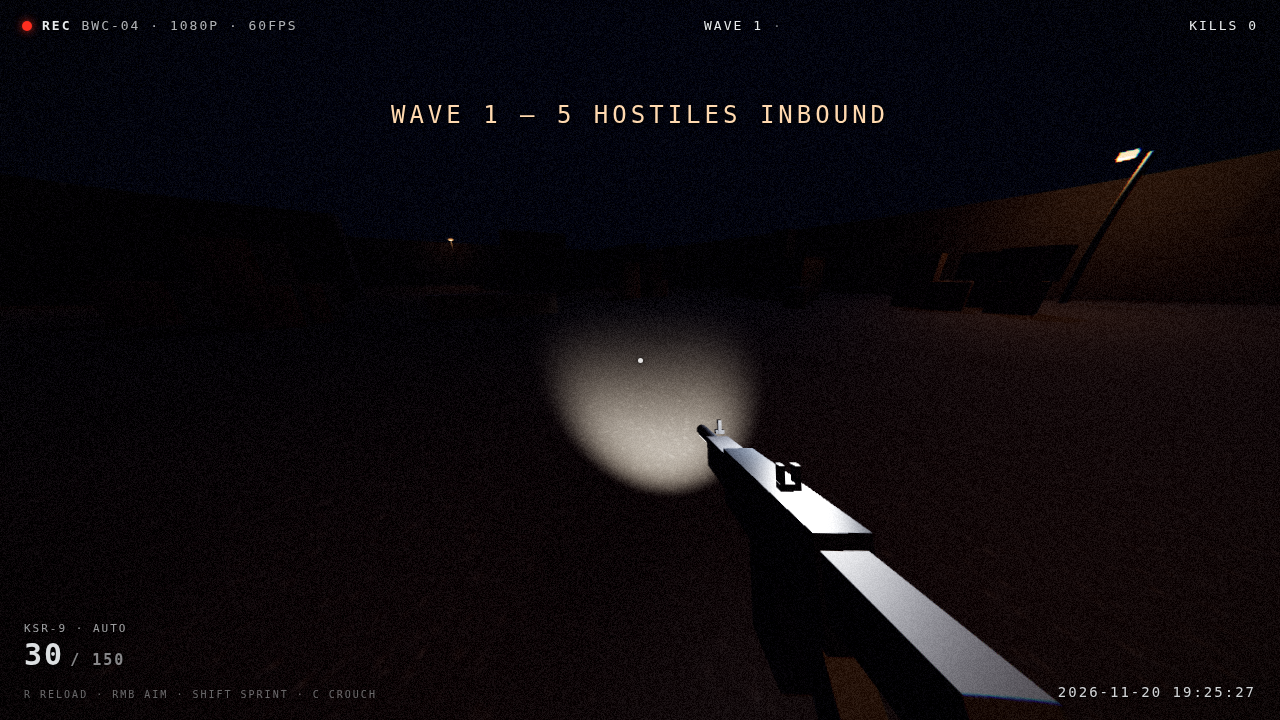
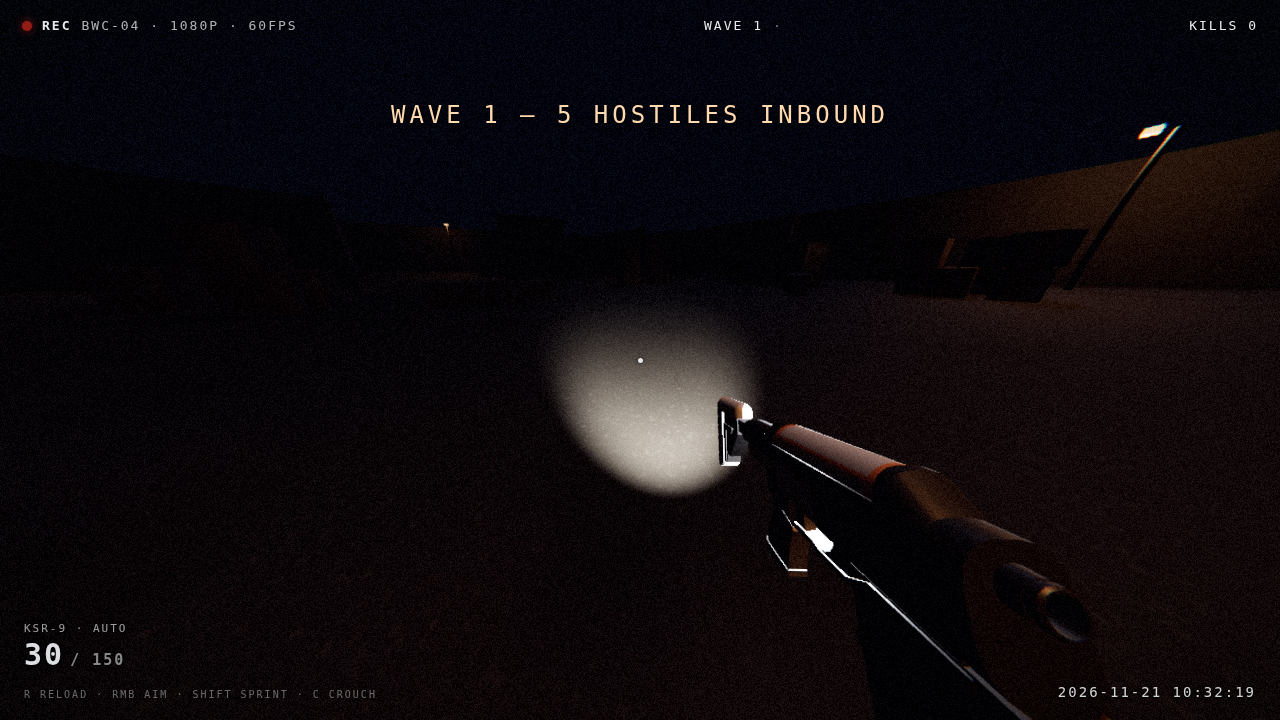
docs: real-model era — README refresh with soldier/SMG sections + credits
- tagline updated: procedural textures/sounds/effects on real GLTF models
- new 'Real 3D models' section: soldier source, SMG normalization, the
  model-space magazine reload, invisible hitboxes, loading gate
- architecture map gains core/Assets.ts; chest-mounted rifle documented
- fresh screenshots: night yard, reload with soldiers, soldier close-up

diff --git a/src/main.ts b/src/main.ts
@@ -270,3 +270,12 @@ window.addEventListener('resize', () => {
 });
 
 console.log('[lastmagazine] bodycam ops ready');
+
+// minimal debug/testing hook (harmless in production)
+(window as unknown as Record<string, unknown>).__lm = {
+  get enemies() {
+    return enemies;
+  },
+  player,
+  rig,
+};

diff --git a/README.md b/README.md
@@ -1,8 +1,10 @@
 # LAST MAGAZINE — Bodycam Ops
 
 A **bodycam-style first-person shooter** that runs entirely in the browser.
-Built with **npm + Vite + TypeScript + three.js** — every texture, every sound
-and every model is generated procedurally at runtime. **Zero binary assets.**
+Built with **npm + Vite + TypeScript + three.js** — all textures, sounds and
+effects are generated procedurally at runtime, on top of **real GLTF 3D
+models** for the characters and weapons (see
+[public/models/CREDITS.md](public/models/CREDITS.md)).
 
 You are the camera. Hold Night Yard K-7 against escalating waves of hostiles,
 with a weapon-mounted light cutting through the dark and a rig that bobs,
@@ -45,6 +47,28 @@ Esc pauses, click to resume.
 
 ## What's inside
 
+### Real 3D models
+
+- **Hostiles** are the rigged **Soldier** GLTF from the three.js example
+  assets (Mixamo skeleton, `Idle` / `Walk` / `Run` clips), skeleton-cloned
+  per hostile with a dedicated `AnimationMixer` — Run is time-scaled to
+  match each soldier's movement speed. Height-normalized to 1.78 m from
+  the bind-pose bbox.
+- **The KSR-9 viewmodel** is a Quaternius *Sci-Fi Modular Guns* SMG
+  (CC0), normalized so the barrel points -z and the model is centered at
+  a real-world 0.62 m length. Its **magazine is a separate node** cloned
+  out of the model into gun space — the reload animation slides the actual
+  magazine out of the well, drops it as a ballistic prop built from the
+  same geometry, then seats a fresh one.
+- **Enemy rifles** are the Quaternius AR model, slung across the chest
+  with a world-space muzzle point for tracers and flash lights.
+- Zone damage is delivered through invisible hitboxes (`colorWrite` /
+  `depthWrite` off, still raycast-able) at head/torso/leg heights.
+- Assets preload through a `LoadingManager` with a progress readout on
+  the menu; deploy is gated until everything is loaded.
+
+![Soldiers](docs/screenshot-soldier.png)
+
 ### The bodycam feel
 
 - **Camera rig springs** — walk-cycle head bob with figure-eight motion,
@@ -66,14 +90,13 @@ Esc pauses, click to resume.
 
 - Full-auto hitscan SMG (780 RPM) with a spread model: hip vs ADS bloom,
   movement and airborne penalties, per-shot bloom accumulation.
-- Iron sights that are *constructed* to align at screen center in ADS.
 - Zone damage on hostiles: head ×2.4, torso ×1.0, limbs ×0.6.
 - Pooled effects: muzzle flash sprites + point lights, moving tracers,
   ballistic shell ejection with ground bounce and positional tink,
   sparks, bullet-hole decals and smoke puffs.
-- The reload is fully animated: gun tilt, magazine slides out and drops as
-  a physical prop, fresh mag seats, charging handle pulls — synced to five
-  staged foley sounds.
+- The reload is fully animated: gun tilt, the model's own magazine slides
+  out and drops as a physical prop, fresh mag seats, bolt jolt — synced
+  to five staged foley sounds.
 
 ### Sound — 100% synthesized, no audio files
 
@@ -90,8 +113,8 @@ Every buffer is rendered with raw sample math at boot:
 
 ### Enemies & waves
 
-- Box-built tactical hostiles: walk-cycled legs, vest, helmet, glowing
-  visor, rifle with a world-space muzzle.
+- GLTF tactical soldiers (vest, helmet, visor) with blend-tree animations
+  and a chest-slung AR rifle with a world-space muzzle.
 - AI: advance with stuck-detection detours, combat strafing, throttled
   line-of-sight raycasts, burst fire with distance/sprint/crouch accuracy,
   near-miss whiz-bys, flinches, physical death falls.
@@ -113,20 +136,21 @@ Every buffer is rendered with raw sample math at boot:
 
 ```
 src/
-├── main.ts               orchestrator: renderer, game phases, frame loop
+├── main.ts               orchestrator: renderer, asset boot, phases, frame loop
 ├── core/
 │   ├── Input.ts          pointer-lock mouse look, consumable key presses
-│   └── CameraRig.ts      bodycam rig: bob, breathing, viewpunch, shake, FOV
+│   ├── CameraRig.ts      bodycam rig: bob, breathing, viewpunch, shake, FOV
+│   └── Assets.ts         GLTF preload + gun/character normalization helpers
 ├── world/
 │   └── MapBuilder.ts     procedural textures, geometry, lights, colliders
 ├── player/
 │   └── Player.ts         accel/friction movement, AABB collision + step-up
 ├── weapons/
-│   ├── Viewmodel.ts      gun mesh, sway/bob springs, reload keyframes
+│   ├── Viewmodel.ts      GLTF SMG, sway/bob springs, model-space mag reload
 │   ├── Weapon.ts         fire control, hitscan, reload state machine
 │   └── Fx.ts             pooled flashes, tracers, shells, impacts, debris
 ├── enemies/
-│   ├── Enemy.ts          mesh, AI states, LOS, burst fire, death physics
+│   ├── Enemy.ts          skinned soldier, mixer, AI states, LOS, death fall
 │   └── EnemyManager.ts   wave director, spawning, pooling, separation
 ├── audio/
 │   └── SFX.ts            procedural buffer synthesis + spatial playback
@@ -146,5 +170,7 @@ sides reuse the same tracer/flash/impact pools and the same audio engine.
   walls when hugging them.
 - Enemy navigation is steering-based (no navmesh) — they slide along cover
   and detour when stuck rather than pathfinding around it.
+- The enemy rifle is chest-mounted rather than bone-attached to the hands,
+  so it stays put while the Run clip swings the arms.
 - Headless/software-rendered environments run below 60 FPS; the game caps
   dt at 50 ms so timing stays correct on slow machines.
